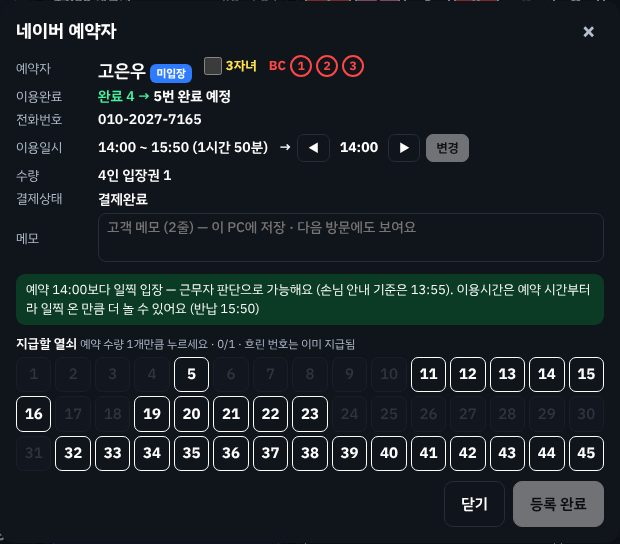
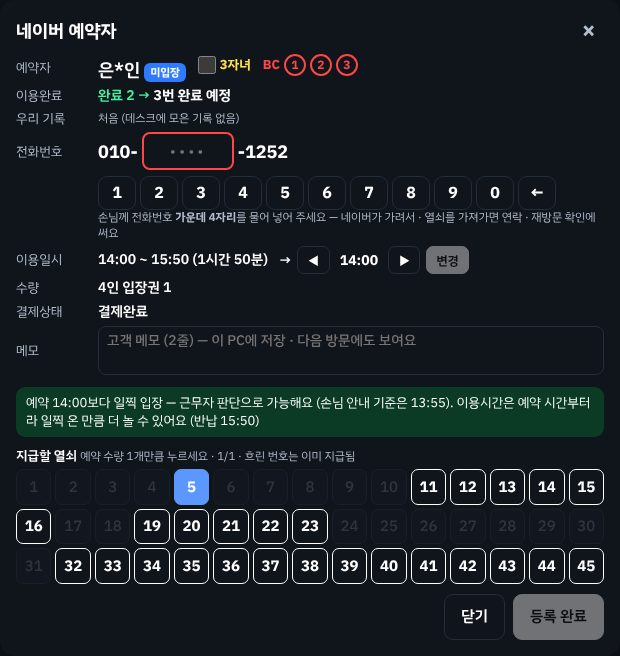
2.40 전 최종 점검 · 근무자 메뉴얼 최신화
- 충돌 고침: '개인정보' 칩 판단이 네이버 칸 저장 if/else 사이에 끼어 시간 칸만 다시 읽을 때 그 칸 숫자(수량 자동조절)가 안 바뀌었음
- 네이버 화면 정리가 손님 확인이 연 '고객정보' 창도 닫음 · 설명 5분 → 30분
- 근무자 메뉴얼: 개인정보 칩 · 가운데 4자리 · 뒷 4자리 · 개인정보 인증 · 이용완료 되어 있음 · 손님 연락 · ② 그림 다시
- 입장 창 '전화번호' 글자를 가운데 4자리 칸 높이에

Claude-Session: https://claude.ai/code/session_019faLMmNxfNPBZFPrEaP1qQ

diff --git a/prototype/desk.html b/prototype/desk.html
@@ -676,6 +676,7 @@ body.keydrag, body.keydrag * { cursor: grabbing !important; }
 .sheet .x { border: 0; background: transparent; font-size: 24px; line-height: 1; padding: 2px 8px; color: var(--muted); }
 .facts { display: grid; grid-template-columns: 72px minmax(0, 1fr); gap: 4px 10px; margin: 0; align-items: center; }
 .facts dt { color: var(--muted); font-size: 13px; }
+.facts dt.midlbl { align-self: start; padding-top: 11px; } /* 가운데 4자리 줄: '전화번호'를 입력 칸 높이에 (아래 숫자판 옆이 아니라 · 11/27) */
 .facts dd { margin: 0; font-weight: 600; overflow-wrap: anywhere; }
 /* 열쇠 창 예약자 줄 오른쪽 [입장권 다시 출력] (사장님 10/21 · 감열지가 끊겼을 때) */
 /* 운영 설정 → 네이버 설정: 손님이 고르는 순위 1 · 2 · 3 (사장님 10/24) */
@@ -1303,6 +1304,7 @@ b.p4 { font-size: 1.3em; font-weight: 800; letter-spacing: 0.5px; color: var(--f
     for (const x of r.slots) { const t = toMin(x.time); const o = (sl[t] = sl[t] || { cap: 0, conf: 0, done: 0 }); o.cap += x.cap; o.conf += x.conf; o.done += x.done; }
     naverSlots[day] = sl;
     if (!only) naverRaw[day] = r.slots.map((x) => Object.assign({}, x));
+    else naverRaw[day] = (naverRaw[day] || []).filter((x) => x.time !== only).concat(r.slots.filter((x) => x.time === only).map((x) => Object.assign({}, x)));
     // 네이버 개인정보 보임 · 가림 (11/27): 오늘 불러온 예약 전화번호로 — 보이다가 다시 가려지면 한 번 알림
     //   앱은 이번에 새로 연 카드로 정한 r.mask (기억한 카드는 예전 모양일 수 있어서) · 없으면 불러온 예약 전화번호로
     if (day === TODAY && (r.mask || r.bookings.length)) {
@@ -1314,7 +1316,6 @@ b.p4 { font-size: 1.3em; font-weight: 800; letter-spacing: 0.5px; color: var(--f
         if (was === "보임" && naverMask.st === "가림") setTimeout(() => toast("네이버 개인정보가 다시 가려졌어요 — 맨 위 '개인정보 가림·인증'을 눌러 네이버 창에서 [개인정보 조회] 인증 (그동안 데스크는 가린 방식으로 그대로)", 9000), 0);
       }
     }
-    else naverRaw[day] = (naverRaw[day] || []).filter((x) => x.time !== only).concat(r.slots.filter((x) => x.time === only).map((x) => Object.assign({}, x)));
     const old = new Map((bookings[day] || []).map((b) => [b.no, b]));
     const list = [];
     for (const n of r.bookings) {
@@ -2686,7 +2687,7 @@ b.p4 { font-size: 1.3em; font-weight: 800; letter-spacing: 0.5px; color: var(--f
         <div><dl class="facts">
           <dt>예약자</dt><dd style="font-size:18px">${nameHtml(b)}${isShort(b) ? ` ${shortBadge(b)}` : ""} <span class="badge ${b.status === "완료" ? "done" : "conf"}">${b.status === "완료" ? "이용완료" : "미입장"}</span>${b.black ? `<span class="nblk" title="네이버 예약 카드에 '블랙리스트' 표시 — 처음 한 번 BC 원아웃 · 특이사항을 메모로">네이버 블랙리스트</span>` : ""}${noteChecks(b)}</dd>
           <dt>${evActive() && evIn(b.day) ? "이벤트" : "이용완료"}</dt><dd class="num visits big">${visitText(b)}</dd>${cdbRow(b)}
-          <dt>전화번호</dt><dd class="num">${midNeed(b) && canEnter ? midHtml(b) : phoneHtml(b)}</dd>${visitorRow(b)}
+          <dt${midNeed(b) && canEnter ? ' class="midlbl"' : ""}>전화번호</dt><dd class="num">${midNeed(b) && canEnter ? midHtml(b) : phoneHtml(b)}</dd>${visitorRow(b)}
           <dt>이용일시</dt><dd class="num">${hm(b.slot)} ${m == null ? "· 무제한" : `~ ${hm(b.slot + m)} (${dur(m)})`}${b.naverSlot != null && b.naverSlot !== b.slot ? ` <span class="moved">네이버 ${hm(b.naverSlot)}</span>` : ""}${b.day === TODAY && b.no ? `
             <span class="mvrow" aria-label="예약시간 변경">→ <button class="btn btn-sm" data-act="mvSlot" data-d="-30" aria-label="앞 시간" ${(sheet.mv ?? b.slot) <= SLOTS[0] ? "disabled" : ""}>◀</button><b class="num">${hm(sheet.mv ?? b.slot)}</b><button class="btn btn-sm" data-act="mvSlot" data-d="30" aria-label="뒤 시간" ${(sheet.mv ?? b.slot) >= SLOTS[SLOTS.length - 1] ? "disabled" : ""}>▶</button><button class="btn btn-sm btn-ink" data-act="mvDo" ${(sheet.mv ?? b.slot) === b.slot ? "disabled" : ""}>변경</button></span>` : ""}</dd>
           <dt>수량</dt><dd>${b.product} ${qtyNum(b.qty)}${qtyNote(b)}</dd>
@@ -5399,7 +5400,7 @@ b.p4 { font-size: 1.3em; font-weight: 800; letter-spacing: 0.5px; color: var(--f
       ["6", "<b>열쇠판</b> — 숫자 = 열쇠 번호 · 바탕색 = 이용 시간 · 테두리 = 네이버(흰색) / 현장(파랑) / 서비스(흰 점선)"],
       ["7", "<b>키즈상담 · 카페상담</b> (붉은 숫자 = 새 상담) · <b>열쇠 일괄 반납처리</b> (마감)"],
       ["8", "<b>주차등록</b> — 차량번호로 찾아 할인 (뒤에 열린 아마노와 같이 움직임)"],
-      ["9", "<b>대관</b> (대관이 있는 날 단체 이름 · 입금일 → 보고 앱) · <b>근무자 메뉴얼 · 총 판매수</b> (누르면 입장권 목록) · 지금 시각 · 맨 왼쪽 <b>통합 데스크</b> 글자를 누르면 데스크만 작업표시줄로"],
+      ["9", "<b>개인정보</b> (초록 <b>보임</b> = 네이버 손님 이름 · 전화번호가 보임 · 호박색 <b>가림·인증</b> = 가려짐 → 눌러서 인증, ⑧ 이럴 땐) · <b>대관</b> (대관이 있는 날 단체 이름 · 입금일 → 보고 앱) · <b>근무자 메뉴얼 · 총 판매수</b> (누르면 입장권 목록) · 지금 시각 · 맨 왼쪽 <b>통합 데스크</b> 글자를 누르면 데스크만 작업표시줄로"],
     ];
     const tile = (bg, line, fg, dash) => `<span class="mankey" style="background:${bg};border:2px ${dash ? "dashed" : "solid"} ${line};color:${fg}">12</span>`;
     return `<h3 id="sheet-title">근무자 메뉴얼 <span class="help">내려 보면서 읽어요 · 그림의 번호 = 화면 위치</span><button class="x" data-act="close" aria-label="닫기">×</button></h3>
@@ -5413,8 +5414,9 @@ b.p4 { font-size: 1.3em; font-weight: 800; letter-spacing: 0.5px; color: var(--f
           "시간표에서 시간을 고르고, 예약자에서 <b>파랑 [미입장]</b> 카드를 누른다",
           "이용일시 · 수량 · 결제상태를 본다 — 금색 <b>2만원 사은권 증정</b>이 보이면 입장할 때 함께 드린다",
           "<b>수량만큼 빈 열쇠 번호</b>를 누른다 (흐린 번호 = 이미 나간 열쇠)",
+          "이름 · 전화번호가 <b>*</b>로 가려진 손님(은*인 · ***-****-1252)이면 손님께 <b>전화번호 가운데 4자리</b>를 물어 <b>010-[____]</b> 칸에 숫자판으로 넣는다 — 넣어야 [등록 완료]가 눌려요 (열쇠를 가져가면 연락 · 재방문 확인에 씀)",
           "<b>[등록 완료]</b> → 입장권이 나오면 열쇠와 함께 드린다",
-        ], "예약 시간보다 일찍 와도 입장할 수 있어요 (초록 안내) · 같은 시간에 나눠 한 예약은 어느 카드에서든 한 번에 · 연속예약은 첫 예약에서 한 번에")}</div></section>
+        ], "손님을 찾을 땐 카드의 <b>전화번호 마지막 4자리</b>(크게 보임)로 · 이름 · 번호가 보이는 손님은 가운데 4자리를 묻지 않아요 · 가린 손님이 재방문 이벤트 대상이면 카드에 '재방문 확인 중' — 입장권이 몇 초 늦게 나와요 (네이버 지난 예약을 읽은 뒤) · <b>우리 기록</b> 줄 = 데스크가 모은 이 손님 방문 수 · 마지막 날 · 예약 시간보다 일찍 와도 입장할 수 있어요 (초록 안내) · 같은 시간에 나눠 한 예약은 어느 카드에서든 한 번에 · 연속예약은 첫 예약에서 한 번에 · 네이버 이용완료는 데스크가 알아서 해요 (네이버에서 따로 누르지 않아도 됨)")}</div></section>
         <section class="mansec" id="man3"><div>${manImg("m3-walk.jpg", "현장입장 창")}</div><div><h4>③ 현장 손님 입장</h4>${manSteps([
           "열쇠판에서 <b>빈 열쇠</b>를 누른다 — 맨 위가 <b>초록(판매 가능)</b>인지 본다 · 빨강이면 지금은 판매 불가",
           "<b>입장권 수</b>를 맞춘다 (열쇠가 이어서 붙음) · 입장 타임은 ◀ ▶",
@@ -5447,6 +5449,9 @@ b.p4 { font-size: 1.3em; font-weight: 800; letter-spacing: 0.5px; color: var(--f
         <section class="mansec full" id="man8"><h4>⑧ 이럴 땐</h4><div class="mansteps">
           <div class="tip"><b>예약이 안 보이면</b> → 가운데 위 <b>[새로고침]</b> 또는 시간표의 그 시간 줄을 누름 (네이버 예약은 09:50부터 매시 20분 · 50분에 자동)</div>
           <div class="tip"><b>빨간 글 · 빨간 상자</b> = 지금 확인할 문제 (초과요금 · 실패) — 그 일을 먼저</div>
+          <div class="tip"><b>맨 위 '개인정보 가림·인증'(호박색)</b> = 네이버가 손님 이름 · 번호를 가림 → 눌러서 뜬 네이버 창 오른쪽 위 <b>[개인정보 조회]</b> → 휴대폰 · 네이버 인증서로 인증 → 창은 <b>X로 닫기만</b> (로그아웃 하지 않기) → <b>[새로고침]</b> 한 번 → '보임'(초록)이면 끝. 가려진 동안에도 데스크는 그대로 써요 (입장 때 가운데 4자리)</div>
+          <div class="tip"><b>'네이버 이용완료 실패 — 2분 뒤 다시'</b> → 데스크가 2분마다 다시 해요 · 네이버에서 이미 이용완료가 됐으면 '<b>이용완료 되어 있음</b>'으로 끝나요 (네이버에서 먼저 눌러도 괜찮음) · 계속 빨간 글이면 관리자에게</div>
+          <div class="tip"><b>손님에게 연락할 때</b> (열쇠 반납이 늦음 · 불만) → 오늘 손님은 열쇠판에서 그 열쇠 → <b>전화번호</b> (사무실 PC 에서도 보임) · 지난 손님은 관리자에게 (운영 설정 → 고객 세부 관리 → 고객 데이터베이스)</div>
           <div class="tip"><b>사은권</b> = 금색 표시 (예약 카드 · 입장 창 · 열쇠 창) → 2만원 사은권을 드리고 <b>[사은권 전달함]</b></div>
           <div class="tip"><b>POS로 갔다 돌아오기</b> → POS를 작업표시줄로 최소화하면 데스크가 앞으로 · 맨 위 [포스 전환]은 결제와 상관없이 POS로</div>
           <div class="tip"><b>더 자세한 것</b> → 인쇄용 직원 메뉴얼 (PDF) · 관리자에게</div>
@@ -7437,7 +7442,7 @@ b.p4 { font-size: 1.3em; font-weight: 800; letter-spacing: 0.5px; color: var(--f
       const nn = o.n ?? b.prevDone, d = o.day || EV.from, st = o.st === undefined ? "안내" : o.st;
       evAdd(Object.assign({ at: `${d} 10:00`, day: d, no: o.no || "t-" + name + nn + d, k: evKey(b), name: o.name ?? name, phone: digits(b.phone), prev: nn - 1, n: nn, base: o.base ?? nn - 1 }, st ? { st, due: o.due ?? shiftDay(d, EV.days) } : {}), o.from || EV.from);
       renderAll();
-    }, evLine: (r, from) => { evAdd(r, from || EV.from); renderAll(); }, sigKey, naverApply: (day, r) => { applyNaver(day, r); renderAll(); }, naverMask: () => naverMask, cdb: () => JSON.parse(JSON.stringify(CDB)), cdbOf: (id) => cdbOf((bookings[TODAY] || []).find((b) => b.id === id)), cdbVisit: (q) => { const id = cdbVisit(q); cdbSave(); renderAll(); return id; }, cdbFind: (q) => cdbFind(q), cdbSearch: (q) => cdbSearch(q).map(([id]) => id), nmMask: (n) => nmMask(n), // 장부 한 줄 그대로 (예전 모양 줄 시험) · 손님 견주는 열쇠 (11/26)
+    }, evLine: (r, from) => { evAdd(r, from || EV.from); renderAll(); }, sigKey, naverApply: (day, r, only) => { applyNaver(day, r, only); renderAll(); }, naverMask: () => naverMask, naverRaw: (day) => JSON.parse(JSON.stringify(naverRaw[day] || [])), cdb: () => JSON.parse(JSON.stringify(CDB)), cdbOf: (id) => cdbOf((bookings[TODAY] || []).find((b) => b.id === id)), cdbVisit: (q) => { const id = cdbVisit(q); cdbSave(); renderAll(); return id; }, cdbFind: (q) => cdbFind(q), cdbSearch: (q) => cdbSearch(q).map(([id]) => id), nmMask: (n) => nmMask(n), // 장부 한 줄 그대로 (예전 모양 줄 시험) · 손님 견주는 열쇠 (11/26)
     evSub: (name) => evSub(bookings[TODAY].filter((x) => x.name === name).pop()), EV };
 
   // ── 반납안내 커튼 ─────────────────────────────────

diff --git a/apps/desk/test/naver-unmask.test.js b/apps/desk/test/naver-unmask.test.js
@@ -87,3 +87,28 @@ test("네이버 개인정보 조회: 가림 → 보임 → 다시 가림 — 오
     await browser.close();
   }
 });
+
+test("시간 칸만 다시 불러와도 그 칸 네이버 숫자(수량 자동조절이 쓰는 칸)가 바뀜 — 개인정보 칩 판단과 섞이지 않음 (11/27 최종 점검: 2.38 에서 칩 판단이 if/else 사이에 끼어 시간 칸 숫자가 안 바뀌었음)", async () => {
+  const browser = await launch();
+  try {
+    const page = await browser.newPage({ viewport: { width: 1024, height: 768 } });
+    const errs = [];
+    page.on("pageerror", (e) => errs.push(e.message));
+    await page.goto(DESK);
+    const r = await page.evaluate((p) => {
+      const T = window.__deskTest, d = T.today();
+      const b = (no, name, phone) => ({ no, time: "16:30", name, phone, qty: 1, status: "확정", doneCount: 1, product: p, qtyText: "4인 입장권 1", pay: "결제완료" });
+      T.naverApply(d, { slots: [{ time: "16:00", product: p, cap: 20, conf: 0, done: 0 }, { time: "16:30", product: p, cap: 20, conf: 1, done: 0 }], bookings: [b("k1", "은*인", "***-****-1252")] });
+      const before = T.naverRaw(d).map((x) => [x.time, x.cap, x.conf]);
+      // 근무자가 16:30 칸을 누름 → 그 칸만 (판매 수량 12 · 확정 2)
+      T.naverApply(d, { slots: [{ time: "16:30", product: p, cap: 12, conf: 2, done: 0 }], bookings: [b("k1", "은*인", "***-****-1252"), b("k2", "박*준", "***-****-3333")] }, "16:30");
+      return { before, after: T.naverRaw(d).map((x) => [x.time, x.cap, x.conf]), mask: T.naverMask() && T.naverMask().st };
+    }, P);
+    assert.deepStrictEqual(r.before, [["16:00", 20, 0], ["16:30", 20, 1]]);
+    assert.deepStrictEqual(r.after, [["16:00", 20, 0], ["16:30", 12, 2]], "16:30 만 새 숫자 · 16:00 그대로");
+    assert.strictEqual(r.mask, "가림", "칩 판단도 그대로");
+    assert.deepStrictEqual(errs, []);
+  } finally {
+    await browser.close();
+  }
+});

diff --git a/apps/desk/src/naver-sync.js b/apps/desk/src/naver-sync.js
@@ -144,6 +144,11 @@ class NaverSync {
       this.step("네이버에 열려 있던 '예약 취소' 화면 닫음 (누르지 않음)");
       await this.act("window.__naver.closeRefund()");
     }
+    // 손님 확인(가린 손님)이 연 '고객정보' 창이 남아 있으면 닫음 (11/27 — 남은 창이 이용완료 · 불러오기를 가리지 않게)
+    if (s && s.cust) {
+      this.step("네이버에 열려 있던 '고객정보' 창 닫음");
+      await this.call("window.__naver.closeCustomer()").catch(() => null);
+    }
   }
   step(msg) {
     try {
@@ -349,7 +354,7 @@ class NaverSync {
   }
   /** opts.only = "14:00" 이면 그 시간 칸만 다시 열어 읽음 (기억한 카드도 무시) — 근무자가 시간 칸을 누를 때
       결과 mask = 네이버 개인정보 "보임" | "가림" | null(이번에 연 카드가 없어 모름) · 11/27
-      opts.probe = 근무자가 [새로고침] — 가린 채 기억한 칸이 있으면 바로 하나 열어 봄 (자동은 5분에 한 번) */
+      opts.probe = 근무자가 [새로고침] — 가린 채 기억한 칸이 있으면 바로 하나 열어 봄 (자동은 30분에 한 번) */
   async loadDay(day, opts = {}) {
     let g = await this.goView("calendar");
     if (!g.ok) return g;

diff --git a/apps/desk/tools/manual-shots.js b/apps/desk/tools/manual-shots.js
@@ -56,8 +56,11 @@ const shot = (loc, name) => loc.screenshot({ path: path.join(OUT, name), type: "
     return [at("[data-act=posGo]", -6, -4), at(".curtain-tab", -10, 0), at("#memo-boxes", -6, -6), at(".leftcol .panel", -6, 4), at(".midcol .panel", -6, 4), at("#keys", -8, -8), at(".keyfoot", -8, -6), at(".park", -8, -4), at(".top .rgrp", -10, -4)];
   });
   console.log("MANUAL_MARKS", JSON.stringify(marks));
-  // 2. 예약 손님 입장
-  await page.click("#res article.res >> nth=0");
+  // 2. 예약 손님 입장 — 네이버가 가린 손님 (11/27 · 전화번호 가운데 4자리 칸이 보이게 · 지어낸 손님)
+  await page.evaluate(() => { const T = window.__deskTest; window.__m2 = T.addBooking(T.today(), "14:00", "은*인", "***-****-1252", 1, { prevDone: 2 }); });
+  await page.click('.slot[data-s="840"]');
+  await page.click(`.res[data-id="${await page.evaluate(() => window.__m2)}"]`);
+  await page.click(".kpick button:not([disabled]) >> nth=0");
   await page.waitForTimeout(250);
   await shot(page.locator("#sheet"), "m2-enter.jpg");
   await page.keyboard.press("Escape");

diff --git a/apps/desk/src/naver-driver.js b/apps/desk/src/naver-driver.js
@@ -403,6 +403,7 @@ function installNaverDriver() {
         cards: cards().map(readCard),
         cap: (() => { const p = capPanel(); return p ? capInfo(p) : null; })(), // 예약가능 설정 창
         refund: refundInfo(), // 결제한 예약의 '예약 취소' 화면 { full, agreed, sure } (전액환불 · 동의된 환불기준이 켜졌는지)
+        cust: !!histHead(), // 손님 확인이 연 '고객정보' 창 (지난 예약)이 열려 있음 — 정리 때 닫음 (11/27)
         listTotal: total ? +total : null, // 예약 목록 위의 "124건"
         loading: $$('[class*="Loading__load_area"], .spinner').some(vis),
       };

diff --git a/docs/SHARE.md b/docs/SHARE.md
@@ -147,6 +147,7 @@
 | 2.16 | **고침 — 재고 자동 오픈이 12월부터 안 열림**(사장님 11/3 — 11/30 까지 열리다 11/1(목표 12/1)부터 실패): 재고수정 날짜 칸이 "2026.12.1" · 확인 창이 "12.1(화)"(앞 0 없음)인데 "2026.12.01" · "12.01" 과 글자로 견줘 멈췄음 → 숫자로 견줌 · 사람처럼 큰 달력 › 로 그 달 → 회차가 다 뜰 때까지 기다림 → [재고수정] (`toMonth`) · 달 넘기기는 화살표 모양 버튼만(날짜 칸을 안 누름) · 회차 등록 전 달은 "그 달 회차를 등록했는지 확인" · 가짜 화면을 실제 모양으로(작은 달력 = 큰 달력 달 · ▶ 는 다음 달 회차가 있을 때만 · "2026.12.1") · 시험 3개 |
 | 2.17 | **고침 2 — 2.16 에서도 재고 자동 오픈이 안 열림**(사장님 11/4 12:00 "큰 달력을 2026-12로 못 넘김: 달 넘기는 버튼을 못 찾음"): 큰 달력 › 가 그림 + 숨은 글 "다음"이라 2.16 의 '화살표 모양만' 거름(창 [다음] 버튼 글과 같아 뺌)에 걸렸음 → 큰 달력은 '이전' · '다음' 숨은 글 화살표도 누름 · 못 넘기면 10월처럼 작은 달력 ▶ 로 · 작은 달력은 달 글자 바로 옆 화살표만 · 같은 글 버튼이 여럿이면 글이 보이는 · 큰 것([다음]) · 날마다 상품 화면을 새로 열어 시작 · 날짜 칸이 기간이면 한 번 더 눌러 하루로 · 가짜 화면 화살표도 숨은 글 · 시험 2개 |
 | 2.34 | **설문조사 뺌**(사장님 11/20 — "설문 하는 것은 이제 더 이상 쓰지 않으니 설문 기능과 설정은 제거해 · 나중에 다시 하게 될 때 추가 요청"): 예약자 · 현장입장 창의 설문 번호(신규 손님 필수 단계) · 운영 설정 → 기타의 설문조사(기간 · 대상 · 선택지 · [+] · 켜기/끄기 · 보고앱에 보내기 · [지금 보내기]) · 매일 20:00 설문 보고(`report-outbox\survey-날짜.json` · 클라우드 `surveyInbox`)를 모두 뺌 · 예전 설문 설정이 남아 있어도 무시 · **보고 열쇠는 그대로**(기타 → 보고 앱 — 폰 실시간 현황 · 재방문 간격 · 이벤트 입장 수 · 방문 기록 · 두 PC 연결이 같이 씀) · 첫 방문(네이버 완료 0) 표시도 그대로 · 보고 앱 '설문조사'는 마지막으로 받은 숫자에서 멈춤 |
+| 다음(모으는 중) | **2.40 전 최종 점검 · 근무자 메뉴얼 최신화**(사장님 11/27 — "오늘 마지막인 2.40을 올리기 전에 충돌 · 불필요 · 겹침 로직 · 불완전한 코드 등 전체를 최종 확인" · "데스크 화면에 있는 근무자 메뉴얼도 최신화"): 2.34 → 지금 바뀐 데스크 · 네이버 읽기 · 앱 본체 · 두 PC 연결을 다시 읽음 → ① **충돌 고침**: 2.38 '개인정보' 칩 판단이 네이버 칸 저장 `if (!only) … else …` 사이에 끼어, 근무자가 시간 칸을 눌러 그 칸만 다시 읽을 때 그 칸 네이버 숫자(수량 자동조절이 쓰는 `naverRaw`)가 안 바뀌었음 → 원래대로 (고치기 전엔 실패하는 시험 더함) ② 네이버 화면 정리(`tidy`)가 손님 확인이 연 '고객정보' 창도 닫음 (남은 창이 이용완료 · 불러오기를 가리지 않게) ③ 설명 '5분' → 실제 '30분' · 남은 시험용 · 임시 코드 없음 · **근무자 메뉴얼**: ① 맨 위 '개인정보 보임 · 가림·인증' · ② 가린 손님은 전화번호 가운데 4자리를 넣어야 [등록 완료] · 뒷 4자리로 찾기 · 재방문 확인 중 · 우리 기록 · 네이버 이용완료는 데스크가 · ⑧ 개인정보 인증 방법(로그아웃 하지 않기) · '이용완료 되어 있음' · 손님에게 연락할 때 · ② 그림을 가린 손님 입장 창(010-[____]-1252 · 숫자판)으로 다시 찍음 (`tools/manual-shots.js` 도) · 입장 창 '전화번호' 글자를 가운데 4자리 칸 높이에 |
 | 다음(모으는 중) | **네이버 이용완료 — 이미 이용완료면 됨 (빨간 글씨 되풀이 없음)**(사장님 11/27 — "*처리 된 사람을 사용완료처리 못하는 문제" · "데스크가 이미 네이버에서 완료 처리를 했는데 아직 못했다고 다시 하겠다는 메시지와 계속 빨강글씨"): 네이버가 이용완료를 늦게 반영하면 첫 확인이 '실패' → 2분 뒤 다시 할 때 카드가 이미 이용완료 칸에 있어 확정 칸에서 '못 찾음' · 그 시간 확정이 0이면 '확정' 단추가 없음으로 다음 불러오기까지 실패를 되풀이 (근무자가 엣지에서 직접 눌러도 같음) → 확정 칸에 없거나 단추가 없으면 그 시간 이용완료 칸에서 예약번호를 찾아 있으면 됨 ('네이버 이용완료 되어 있음') · 누른 뒤 칸 숫자로 확인이 안 돼도 이용완료 칸에 있으면 됨 · 가린 손님 · 네이버만 열린 손님도 예약번호로 찾아 됨 (`naver-sync.js complete · doneCard` · 가짜 네이버 `mockSlowDone` 늦은 반영 · 시험 `naver-complete-mask.test.js`) |
 | 2.39 | **가린 채 읽어 둔 손님도 인증 뒤 이름 · 번호가 보이게**(사장님 11/27 — "새로 고침을 하면 이미 처리된 * 고객도 이름 · 전화번호가 보이는데 바뀌어야 편할 것" · "가려져 있을 고객카드만 30분 단위로 다시 읽거나 근무자가 시간을 클릭하면 그 시간대만 다시 확인하면 되잖어"): 데스크 네이버 읽기가 칸 숫자가 그대로면 기억한 카드를 다시 안 열어 인증해도 * 그대로였음 → 시간 칸을 누르면 그 칸만 다시 · 자동 불러오기는 가린 채 기억한 칸이 있을 때만 30분에 한 번 한 칸 열어 보고 보이면 가린 칸만 다시 읽음 (가려져 있으면 더 안 엶 · 가린 카드가 없으면 안 엶 — 평소 네이버 작업을 늦추지 않게) · [새로고침]은 바로 한 칸 확인 · 맨 위 '개인정보' 칩은 이번에 새로 연 카드 기준(`mask` — 모르면 그대로 · 다시 가려진 것은 카드를 새로 열 때) (`naver-sync.js loadDay · maskOf` · 가짜 네이버 `naver-unmask` 인증 흉내 · 시험 `naver-mask-sync.test.js` · `naver-unmask.test.js`) |
 | 2.38 | **맨 위 '개인정보 보임 · 가림·인증' 칩**(사장님 11/27 — 시험해 보니 인증한 뒤 로그아웃만 안 하면 창을 닫거나 PC 를 껐다 켜도 계속 보임 · "그 표시 넣어줘"): 오늘 네이버를 불러올 때마다 전화번호가 가려져 왔는지로 보임(초록) · 가림·인증(호박색) · 누르면 이 PC 의 네이버 창 + '[개인정보 조회] → 휴대폰 · 네이버 인증서 · 로그아웃은 하지 마세요' · 보이다가 다시 가려지면 알림 한 번 · 오늘 불러온 예약이 없으면 칩 없음 · 사무실 PC 는 자기 네이버 창 기준 · 맨 위 오른쪽이 붐비면 한 단계 더 줄임(`tight3`) (`desk.html renderMaskChip · applyNaver · fitTop` · 시험 `naver-unmask.test.js` · `rental.test.js`) |
